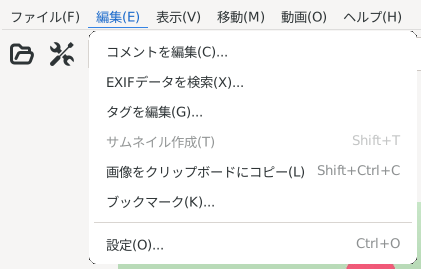
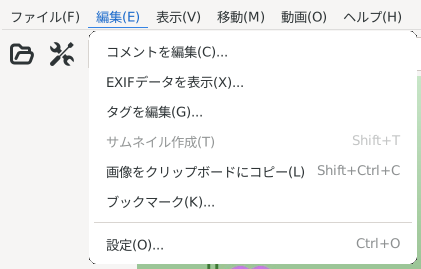
ja: "EXIFデータを表示" for Scan EXIF Data
The item shows the EXIF data; "検索" (search) was a translation of
"Scan".  The help and its screenshots follow.

Changed region(s): [[0.2779, 0.2677, 1.0, 1.0], [0.4323, 0.2677, 0.5249, 0.3271]]

diff --git a/doc/ja/gimv_history.html b/doc/ja/gimv_history.html
@@ -61,8 +61,9 @@
       手で付けたタグと 1 つのタグとして表示・検索
     o gexiv2 (Exiv2) があれば，索引は HEIF・PNG・WebP・TIFF・RAW などの
       EXIF・XMP・IPTC も読む (撮影日時・カメラ・キーワード)
-    o gexiv2 があれば JPEG 以外の EXIF も「EXIFデータを検索」で表示し，
+    o gexiv2 があれば JPEG 以外の EXIF も「EXIFデータを表示」で見られ，
       その向きで画像・サムネイルを回す
+    o 「EXIFデータを検索」を「EXIFデータを表示」に
     o データタブに「項目を削除」．下の「削除」は「コメントを削除...」にして
       確認を出し，タグは残す．コメントの保存・削除をすぐ索引に反映
     o スライドショーで 2 枚目以降の画像が描かれなかったのを修正

diff --git a/doc/ja/05.html b/doc/ja/05.html
@@ -102,7 +102,7 @@
 選択中の画像のフルパスをクリップボードに入れます (複数なら 1 行に 1 つ)。
 </p>
 </dd>
-<dt><span class="term"><a name="scan_exif"></a>EXIFデータを検索</span></dt>
+<dt><span class="term"><a name="scan_exif"></a>EXIFデータを表示</span></dt>
 <dd>
 <p class="para">
 EXIF 対応で作成した場合にある項目です。画像の EXIF データを表示します。gexiv2 (Exiv2) を使って作成した場合は JPEG 以外 (TIFF・RAW・PNG・WebP・HEIF など) の EXIF も表示します (gexiv2 なしでは JPEG だけで、他の形式ではこの項目は出ません)。
